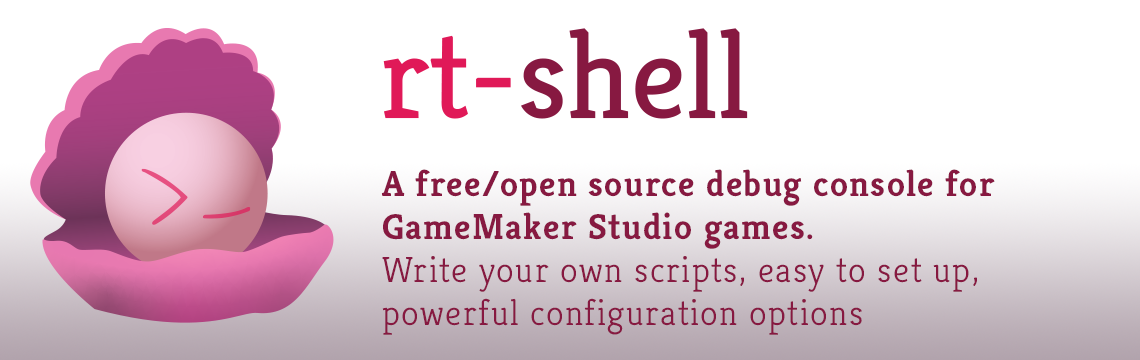
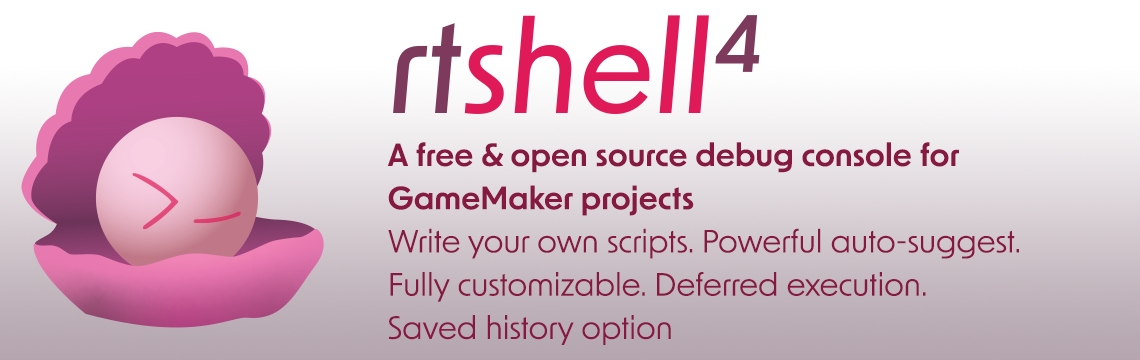
Update README and branding

diff --git a/README.md b/README.md
@@ -55,9 +55,11 @@ Adding metadata works much the same way as adding your custom commands in the fi
 Let's say that `sh_create_balloon` looked like this:
 ```gml
 function sh_create_balloon (args) {
-	var balloon = instance_create_layer(args[1], args[2], "balloon_layer", obj_balloon);
-	balloon.type = args[3];
-	balloon.color = args[4];
+	var mX = args[1];
+	var mY = args[2];
+	var balloon = instance_create_layer(mX, mY, "DemoInstances", obj_balloon);
+	balloon.mType = args[3];
+	balloon.mColor = args[4];
 }
 ```
 
@@ -105,6 +107,7 @@ Some things to keep in mind:
 4. Each of the items inside `suggestions` can be either a static array of possible suggestions, or a function that returns an array. If you use a function, it will be called at run-time, making the suggestions dynamic!
 5. `description` and `argumentDescriptions` are optional, they're only used for the `help` output
 6. `hidden` is optional, but if `hidden` is set to `true`, the function will not appear in the help output, or in autocomplete suggestions! This way you can add secret cheat codes. You will still be able to type `help hidden_function_name` and see help output, but only if you know that hidden function's name in the first place.
+7. `deferred` is optional, but if `deferred` is set to `true`, the function will not execute directly when called. Instead it will be queued up, and all deferred functions in the queue will run in sequence when the shell is closed.
 
 ## Keyboard Shortcuts
 
@@ -134,7 +137,8 @@ The following variables on the `obj_shell` object can be configured. They are de
 | `screenAnchorPointV` | The vertical location on the screen to anchor the console to, as a string. Possible values are `"top"`, `"middle"`, or `"bottom"`. | `"bottom"` |
 | `screenAnchorPointH` | The horizontal location on the screen to anchor the console to, as a string. Possible values are `"left"`, `"center"`, or `"right"`. | `"center"` |
 | `anchorMargin` | The number of pixels away from the anchor point to draw the shell. In practice, the margin from the top or bottom of the screen, depending on how you have set `screenAnchorPoint` | 4 |
-| `consolePadding` | The number of pixels of padding to place around the edges of the shell window. | 6 |
+| `consolePaddingV` | The number of pixels of padding to place around the vertical edges of the shell window. | 4 |
+| `consolePaddingH` | The number of pixels of padding to place around the horizontal edges of the shell window. | 6 |
 | `prompt` | A character or string to print as a command prompt | $ |
 | `promptColor` | The font color to draw the prompt, as a GML expression | `make_color_rgb(237, 0, 54)` |
 | `consoleColor` | The background color of the console itself, as a GML expression | `c_black` |
@@ -145,6 +149,7 @@ The following variables on the `obj_shell` object can be configured. They are de
 | `cornerRadius` | The radius in pixels to round the corners of the shell. A value of 0 would result in perfectly squared corners | 12 |
 | `scrollBarWidth` | The width in pixels of the scrollbar. | 5 |
 | `autocompleteBackgroundColor` | The background color of the autocompletion box, as a GML expression | `c_black` |
+| `autocompletePadding` | The number of pixels of padding to place around the autocompletion box | 2 |
 
 You can see examples of various ways to customize the shell's appearance on the [Theme Gallery](THEMING.md) page!
 
